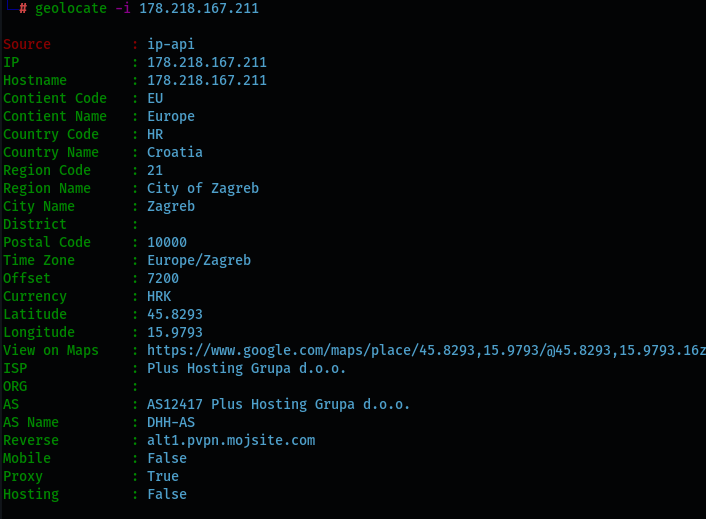
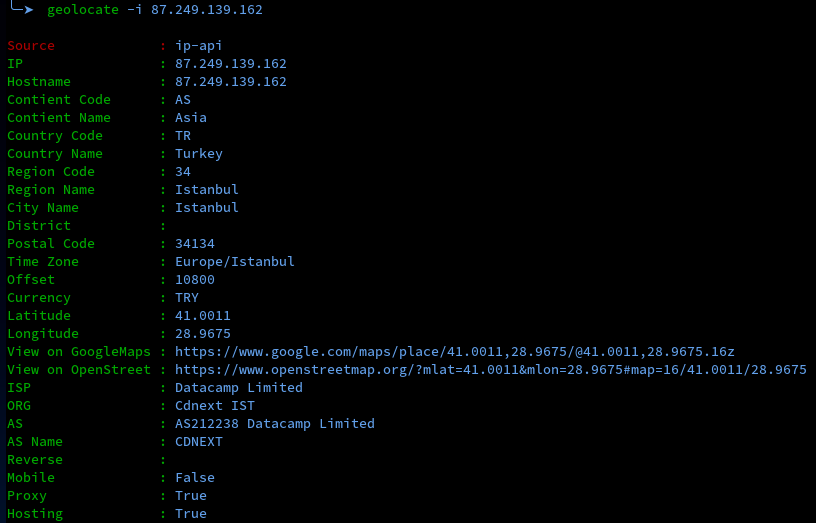
add openstreet

Changed region(s): [[0.0, 0.0617, 1.0, 1.0], [0.0, 0.0, 0.3739, 0.0308]]

diff --git a/geolocate.py b/geolocate.py
@@ -14,39 +14,41 @@ ip = ''
 url = ''
 hostname = ''
 api = 'http://ip-api.com/json/{}?fields=66846719'
-maps = 'https://www.google.com/maps/place/{0},{1}/@{0},{1}.16z'
+googleMaps = 'https://www.google.com/maps/place/{0},{1}/@{0},{1}.16z'
+openStreet = 'https://www.openstreetmap.org/?mlat={0}&mlon={1}#map=16/{0}/{1}'
 
 def getDataIpapi():
 	data = requests.get(api.format(ip)).json()
 
 	if data['status'] == 'success':
 		print('')
-		print(colored('Source          : ', 'red') + 'ip-api')
-		print(colored('IP              : ', 'green') + str(ip))
-		print(colored('Hostname        : ', 'green') + str(hostname))
-		print(colored('Contient Code   : ', 'green') + str(data['continentCode']))
-		print(colored('Contient Name   : ', 'green') + str(data['continent']))
-		print(colored('Country Code    : ', 'green') + str(data['countryCode']))
-		print(colored('Country Name    : ', 'green') + str(data['country']))
-		print(colored('Region Code     : ', 'green') + str(data['region']))
-		print(colored('Region Name     : ', 'green') + str(data['regionName']))
-		print(colored('City Name       : ', 'green') + str(data['city']))
-		print(colored('District        : ', 'green') + str(data['district']))
-		print(colored('Postal Code     : ', 'green') + str(data['zip']))
-		print(colored('Time Zone       : ', 'green') + str(data['timezone']))
-		print(colored('Offset          : ', 'green') + str(data['offset']))
-		print(colored('Currency        : ', 'green') + str(data['currency']))
-		print(colored('Latitude        : ', 'green') + str(data['lat']))
-		print(colored('Longitude       : ', 'green') + str(data['lon']))
-		print(colored('View on Maps    : ', 'green') + str(maps.format(data['lat'], data['lon'])))
-		print(colored('ISP             : ', 'green') + str(data['isp']))
-		print(colored('ORG             : ', 'green') + str(data['org']))
-		print(colored('AS              : ', 'green') + str(data['as']))
-		print(colored('AS Name         : ', 'green') + str(data['asname']))
-		print(colored('Reverse         : ', 'green') + str(data['reverse']))
-		print(colored('Mobile          : ', 'green') + str(data['mobile']))
-		print(colored('Proxy           : ', 'green') + str(data['proxy']))
-		print(colored('Hosting         : ', 'green') + str(data['hosting']))
+		print(colored('Source'.ljust(18) + ' : ', 'red') + 'ip-api')
+		print(colored('IP'.ljust(18) + ' : ', 'green') + str(ip))
+		print(colored('Hostname'.ljust(18) + ' : ', 'green') + str(hostname))
+		print(colored('Contient Code'.ljust(18) + ' : ', 'green') + str(data['continentCode']))
+		print(colored('Contient Name'.ljust(18) + ' : ', 'green') + str(data['continent']))
+		print(colored('Country Code'.ljust(18) + ' : ', 'green') + str(data['countryCode']))
+		print(colored('Country Name'.ljust(18) + ' : ', 'green') + str(data['country']))
+		print(colored('Region Code'.ljust(18) + ' : ', 'green') + str(data['region']))
+		print(colored('Region Name'.ljust(18) + ' : ', 'green') + str(data['regionName']))
+		print(colored('City Name'.ljust(18) + ' : ', 'green') + str(data['city']))
+		print(colored('District'.ljust(18) + ' : ', 'green') + str(data['district']))
+		print(colored('Postal Code'.ljust(18) + ' : ', 'green') + str(data['zip']))
+		print(colored('Time Zone'.ljust(18) + ' : ', 'green') + str(data['timezone']))
+		print(colored('Offset'.ljust(18) + ' : ', 'green') + str(data['offset']))
+		print(colored('Currency'.ljust(18) + ' : ', 'green') + str(data['currency']))
+		print(colored('Latitude'.ljust(18) + ' : ', 'green') + str(data['lat']))
+		print(colored('Longitude'.ljust(18) + ' : ', 'green') + str(data['lon']))
+		print(colored('View on GoogleMaps'.ljust(18) + ' : ', 'green') + str(googleMaps.format(data['lat'], data['lon'])))
+		print(colored('View on OpenStreet'.ljust(18) + ' : ', 'green') + str(openStreet.format(data['lat'], data['lon'])))
+		print(colored('ISP'.ljust(18) + ' : ', 'green') + str(data['isp']))
+		print(colored('ORG'.ljust(18) + ' : ', 'green') + str(data['org']))
+		print(colored('AS'.ljust(18) + ' : ', 'green') + str(data['as']))
+		print(colored('AS Name'.ljust(18) + ' : ', 'green') + str(data['asname']))
+		print(colored('Reverse'.ljust(18) + ' : ', 'green') + str(data['reverse']))
+		print(colored('Mobile'.ljust(18) + ' : ', 'green') + str(data['mobile']))
+		print(colored('Proxy'.ljust(18) + ' : ', 'green') + str(data['proxy']))
+		print(colored('Hosting'.ljust(18) + ' : ', 'green') + str(data['hosting']))
 	else:
 		print('An error occurred while fetching data. Try again. If the error persists, use the [-m] flag to use the local maxmind database.')
 
@@ -54,25 +56,26 @@ def getDataMaxmind():
 	with geoip2.database.Reader('/var/lib/GeoIP/GeoLite2-City.mmdb') as reader:
 		response = reader.city(ip)
 		print('')
-		print(colored('Source          : ', 'red') + 'MaxMind')
-		print(colored('IP              : ', 'green') + str(ip))
-		print(colored('Hostname        : ', 'green') + str(hostname))
-		print(colored('Contient Code   : ', 'green') + str(response.continent.code))
-		print(colored('Contient Name   : ', 'green') + str(response.continent.name))
-		print(colored('Country Code    : ', 'green') + str(response.country.iso_code))
-		print(colored('Country Name    : ', 'green') + str(response.country.name))
-		print(colored('Region Code     : ', 'green') + str(response.subdivisions.most_specific.iso_code))
-		print(colored('Region Name     : ', 'green') + str(response.subdivisions.most_specific.name))
-		print(colored('City Name       : ', 'green') + str(response.city.name))
-		print(colored('Postal Code     : ', 'green') + str(response.postal.code))
-		print(colored('Time Zone       : ', 'green') + str(response.location.time_zone))
-		print(colored('Latitude        : ', 'green') + str(response.location.latitude))
-		print(colored('Longitude       : ', 'green') + str(response.location.longitude))
-		print(colored('View on Maps    : ', 'green') + str(maps.format(response.location.latitude, response.location.longitude)))
+		print(colored('Source'.ljust(18) + ' : ', 'red') + 'MaxMind')
+		print(colored('IP'.ljust(18) + ' : ', 'green') + str(ip))
+		print(colored('Hostname'.ljust(18) + ' : ', 'green') + str(hostname))
+		print(colored('Contient Code'.ljust(18) + ' : ', 'green') + str(response.continent.code))
+		print(colored('Contient Name'.ljust(18) + ' : ', 'green') + str(response.continent.name))
+		print(colored('Country Code'.ljust(18) + ' : ', 'green') + str(response.country.iso_code))
+		print(colored('Country Name'.ljust(18) + ' : ', 'green') + str(response.country.name))
+		print(colored('Region Code'.ljust(18) + ' : ', 'green') + str(response.subdivisions.most_specific.iso_code))
+		print(colored('Region Name'.ljust(18) + ' : ', 'green') + str(response.subdivisions.most_specific.name))
+		print(colored('City Name'.ljust(18) + ' : ', 'green') + str(response.city.name))
+		print(colored('Postal Code'.ljust(18) + ' : ', 'green') + str(response.postal.code))
+		print(colored('Time Zone'.ljust(18) + ' : ', 'green') + str(response.location.time_zone))
+		print(colored('Latitude'.ljust(18) + ' : ', 'green') + str(response.location.latitude))
+		print(colored('Longitude'.ljust(18) + ' : ', 'green') + str(response.location.longitude))
+		print(colored('View on GoogleMaps'.ljust(18) + ' : ', 'green') + str(googleMaps.format(response.location.latitude, response.location.longitude)))
+		print(colored('View on OpenStreet'.ljust(18) + ' : ', 'green') + str(openStreet.format(response.location.latitude, response.location.longitude)))
 
 	with geoip2.database.Reader('/var/lib/GeoIP/GeoLite2-ASN.mmdb') as reader:
 		response = reader.asn(ip)
-		print(colored('ASN             : ', 'green') + str(response.autonomous_system_organization))
+		print(colored('ASN'.ljust(18) + ' : ', 'green') + str(response.autonomous_system_organization))
 
 
 

diff --git a/README.md b/README.md
@@ -34,6 +34,9 @@ options:
 
 ### MaxMind Help
 
+For Arch
+`sudo pacman -S geoipupdate`
+
 For Debian
 `sudo apt install geoipupdate`
 
